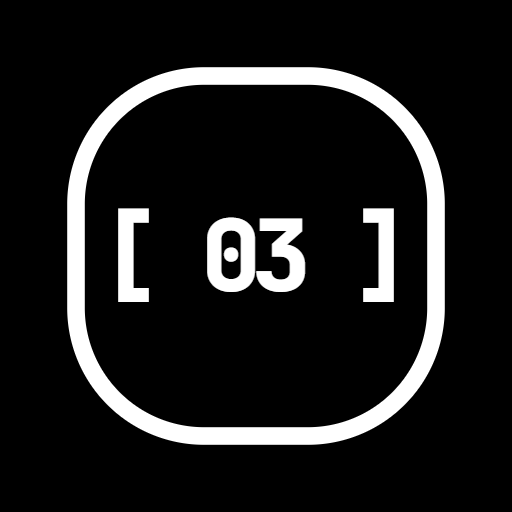
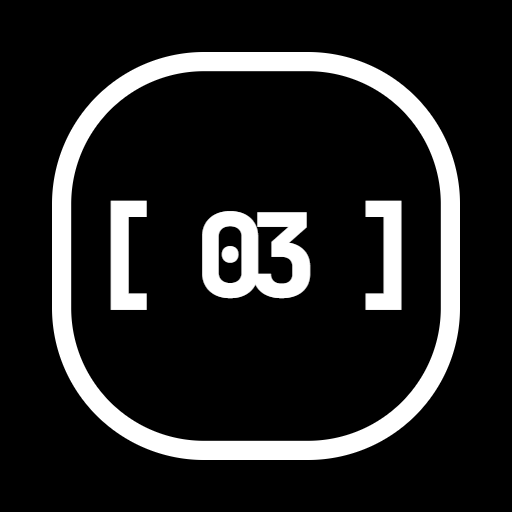
홈 화면 아이콘 상자·숫자 더 키우기: 갤럭시 홈 화면에서 다른 앱 아이콘만큼
- 갤럭시는 아이콘 그림의 가운데 84%만 보여 줘서(받은 캡처로 잼) 상자 바깥선을 80%까지(45→48.6칸),
  모서리는 갤럭시 아이콘 모양처럼 크게, 숫자 12.4→14.5
- 인트로 첫 장면 상자도 새 아이콘 크기에 맞춤

Changed region(s): [[0.0938, 0.0938, 0.9062, 0.9062], [0.375, 0.4062, 0.625, 0.5938]]

diff --git a/index.html b/index.html
@@ -8,7 +8,7 @@
 <link rel="manifest" href="manifest.webmanifest">
 <!-- 아이콘(#39 [ 03 ]): 탭·설치용은 시안 그대로, 아이폰 홈 화면은 검은 바탕을 꽉 채운 것 (모서리는 아이폰이 둥글게 깎음) -->
 <link rel="icon" type="image/png" href="icon-192.png?v=3">
-<link rel="apple-touch-icon" href="apple-touch-icon.png?v=3">
+<link rel="apple-touch-icon" href="apple-touch-icon.png?v=4">
 <meta name="apple-mobile-web-app-capable" content="yes">
 <meta name="apple-mobile-web-app-status-bar-style" content="black-translucent">
 <title>Pebbly Mirror</title>
@@ -19,17 +19,17 @@
 <link rel="stylesheet" href="https://fonts.googleapis.com/css2?family=JetBrains+Mono:wght@400;800&text=0123456789%5B%5D%2F%20ABDEILNPSX&display=block">
 <link rel="stylesheet" href="https://cdn.jsdelivr.net/gh/orioncactus/pretendard@v1.3.9/dist/web/variable/pretendardvariable-dynamic-subset.min.css">
 <!-- ?v=: 기기에 남은 옛 파일을 건너뛰게 하는 판 번호 (파일은 _headers로 매번 새 버전 확인). 스타일: 테마 색 → 기본 → 시계 → 날씨 → 상세 화면 → 시계 강조 → 교통 → 사진 액자 → 달력 → 시계 강조 위젯 → 설정 (순서대로 겹침) -->
-<link rel="stylesheet" href="css/theme.css?v=35">
-<link rel="stylesheet" href="css/base.css?v=35">
-<link rel="stylesheet" href="css/clock.css?v=35">
-<link rel="stylesheet" href="css/weather.css?v=35">
-<link rel="stylesheet" href="css/detail.css?v=35">
-<link rel="stylesheet" href="css/standby.css?v=35">
-<link rel="stylesheet" href="css/transit.css?v=35">
-<link rel="stylesheet" href="css/photo.css?v=35">
-<link rel="stylesheet" href="css/calendar.css?v=35">
-<link rel="stylesheet" href="css/standby-widgets.css?v=35">
-<link rel="stylesheet" href="css/settings.css?v=35">
+<link rel="stylesheet" href="css/theme.css?v=36">
+<link rel="stylesheet" href="css/base.css?v=36">
+<link rel="stylesheet" href="css/clock.css?v=36">
+<link rel="stylesheet" href="css/weather.css?v=36">
+<link rel="stylesheet" href="css/detail.css?v=36">
+<link rel="stylesheet" href="css/standby.css?v=36">
+<link rel="stylesheet" href="css/transit.css?v=36">
+<link rel="stylesheet" href="css/photo.css?v=36">
+<link rel="stylesheet" href="css/calendar.css?v=36">
+<link rel="stylesheet" href="css/standby-widgets.css?v=36">
+<link rel="stylesheet" href="css/settings.css?v=36">
 </head>
 <body class="idle" data-panel="now">
 <!-- 시작 인트로(#39 로고): 안드로이드 시작 화면의 [ 03 ] 상자 그대로 시작 → 상자가 스파인으로 펼쳐지고
@@ -60,13 +60,13 @@
           <text x="216" y="86" class="in-sub">SPINE INDEX // LABS</text>
         </g>
       </g>
-      <!-- 첫 장면: 안드로이드 시작 화면과 같은 [ 03 ] 상자 (icon-maskable.png를 160px로 띄운 크기: 상자 112.5px) -->
-      <rect id="in-box" x="-56.25" y="-56.25" width="112.5" height="112.5" rx="40" stroke-width="5.5"/>
-      <text id="in-03" x="-1.5" y="10.95" class="in-mid" style="font-size:31px;letter-spacing:-3px" xml:space="preserve">[ 03 ]</text>
+      <!-- 첫 장면: 안드로이드 시작 화면과 같은 [ 03 ] 상자 (icon-maskable.png를 160px로 띄운 크기: 상자 121.5px) -->
+      <rect id="in-box" x="-60.75" y="-60.75" width="121.5" height="121.5" rx="44.5" stroke-width="6"/>
+      <text id="in-03" x="-2.75" y="12.8" class="in-mid" style="font-size:36.25px;letter-spacing:-5.5px" xml:space="preserve">[ 03 ]</text>
     </svg>
   </svg>
 </div>
-<script src="js/intro.js?v=35"></script>
+<script src="js/intro.js?v=36"></script>
 <main id="stage" class="stage">
   <header class="head">
     <div class="brand">
@@ -347,16 +347,16 @@
 </div>
 
 <!-- 스크립트: 순서대로 실행 (앞 파일의 값·함수를 뒤 파일이 씀). 시작은 main.js -->
-<script src="js/core.js?v=35"></script>
-<script src="js/sync.js?v=35"></script>
-<script src="js/clock.js?v=35"></script>
-<script src="js/weather.js?v=35"></script>
-<script src="js/screen.js?v=35"></script>
-<script src="js/clock-modes.js?v=35"></script>
-<script src="js/settings.js?v=35"></script>
-<script src="js/transit.js?v=35"></script>
-<script src="js/photo.js?v=35"></script>
-<script src="js/calendar.js?v=35"></script>
-<script src="js/main.js?v=35"></script>
+<script src="js/core.js?v=36"></script>
+<script src="js/sync.js?v=36"></script>
+<script src="js/clock.js?v=36"></script>
+<script src="js/weather.js?v=36"></script>
+<script src="js/screen.js?v=36"></script>
+<script src="js/clock-modes.js?v=36"></script>
+<script src="js/settings.js?v=36"></script>
+<script src="js/transit.js?v=36"></script>
+<script src="js/photo.js?v=36"></script>
+<script src="js/calendar.js?v=36"></script>
+<script src="js/main.js?v=36"></script>
 </body>
 </html>

diff --git a/js/intro.js b/js/intro.js
@@ -33,7 +33,7 @@
     lock.setAttribute('transform', `translate(${-W / 2} ${-W / 6}) scale(${k})`);
   }
   // 상자 → 스파인. 시작 값은 index.html의 첫 장면, 끝 값은 로고의 스파인 테두리·가운데 칸 (로고 가운데 = 180, 60)
-  const A = { x: -56.25, y: -56.25, w: 112.5, h: 112.5, r: 40, sw: 5.5, tx: -1.5, ty: 10.95, fs: 31, ls: -3 };
+  const A = { x: -60.75, y: -60.75, w: 121.5, h: 121.5, r: 44.5, sw: 6, tx: -2.75, ty: 12.8, fs: 36.25, ls: -5.5 };
   const ease = t => t < .5 ? 4 * t * t * t : 1 - Math.pow(-2 * t + 2, 3) / 2;
   const part = (a, b) => Math.max(0, Math.min(1, (p - a) / (b - a)));
   function frame() {
